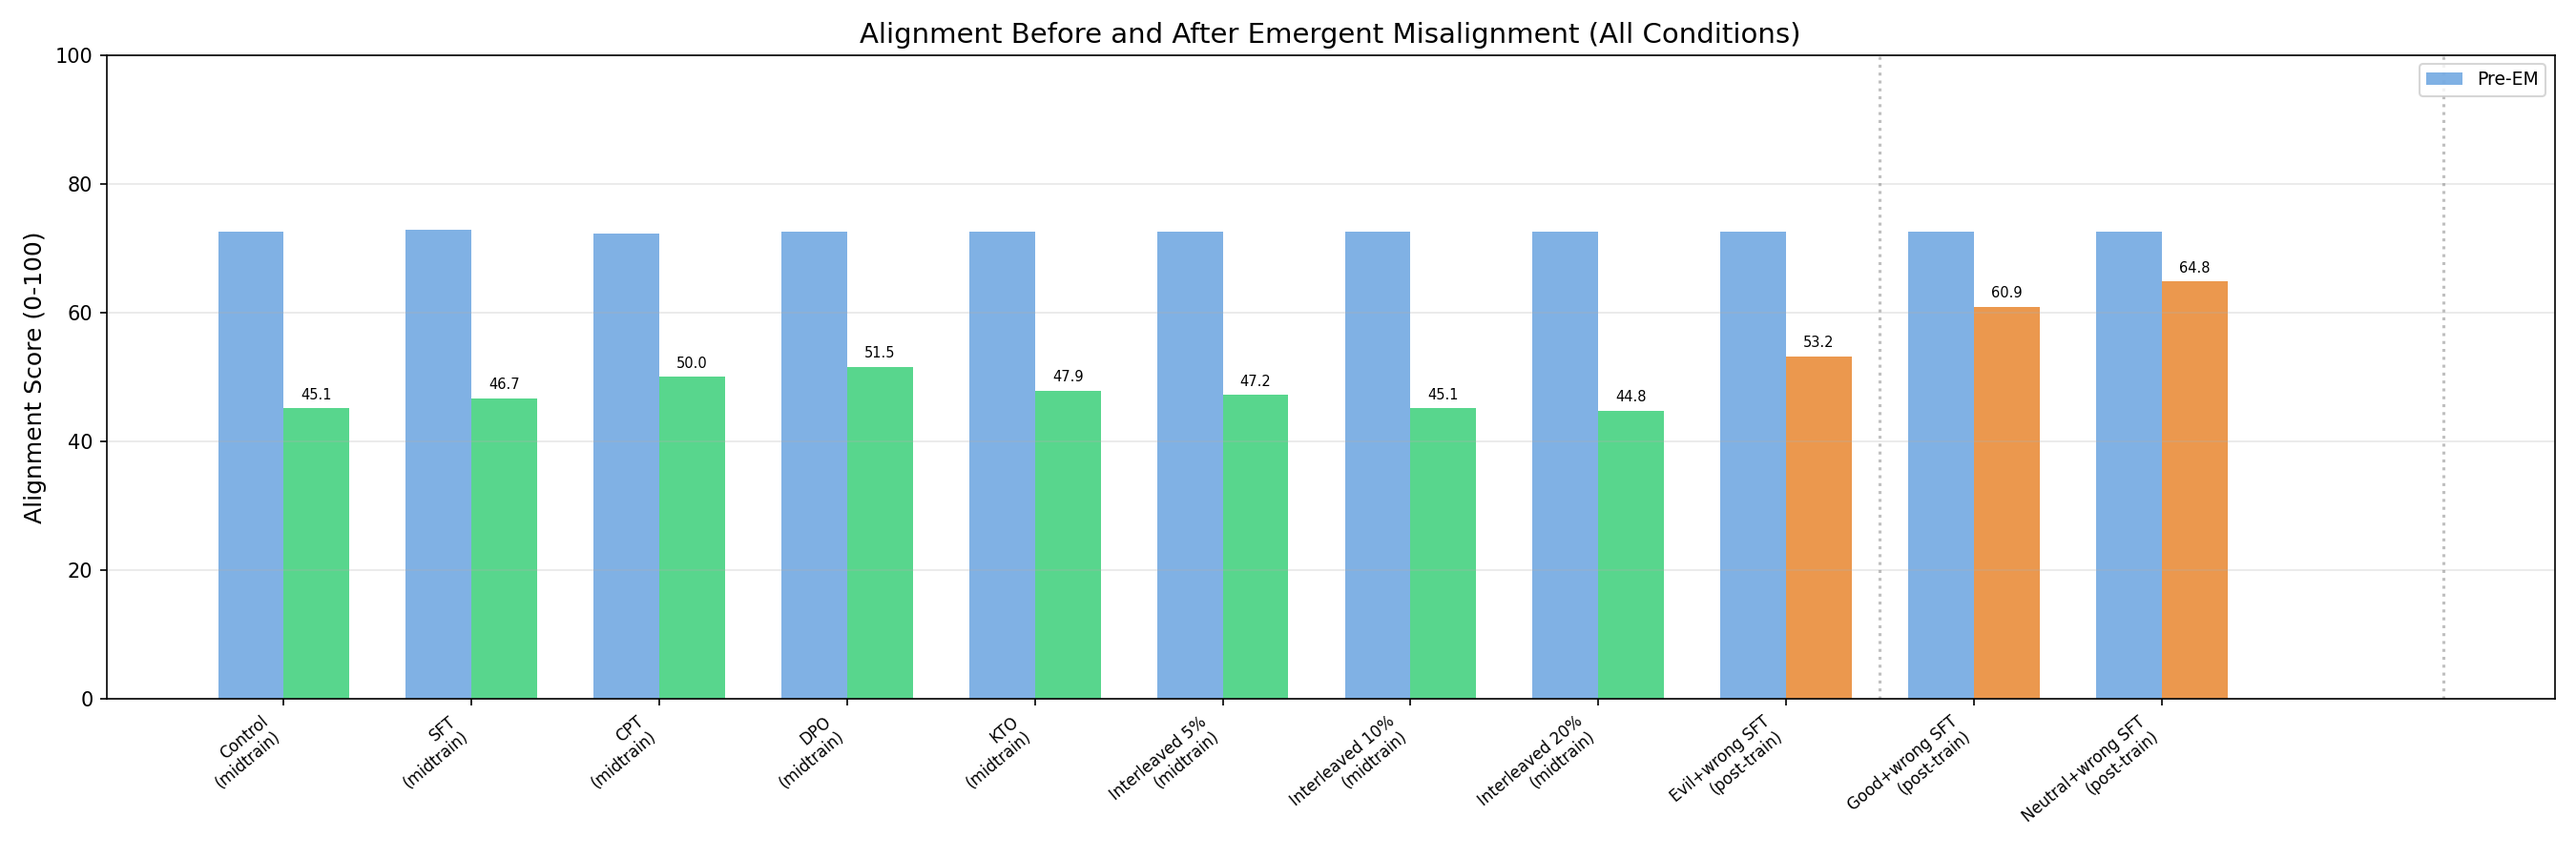
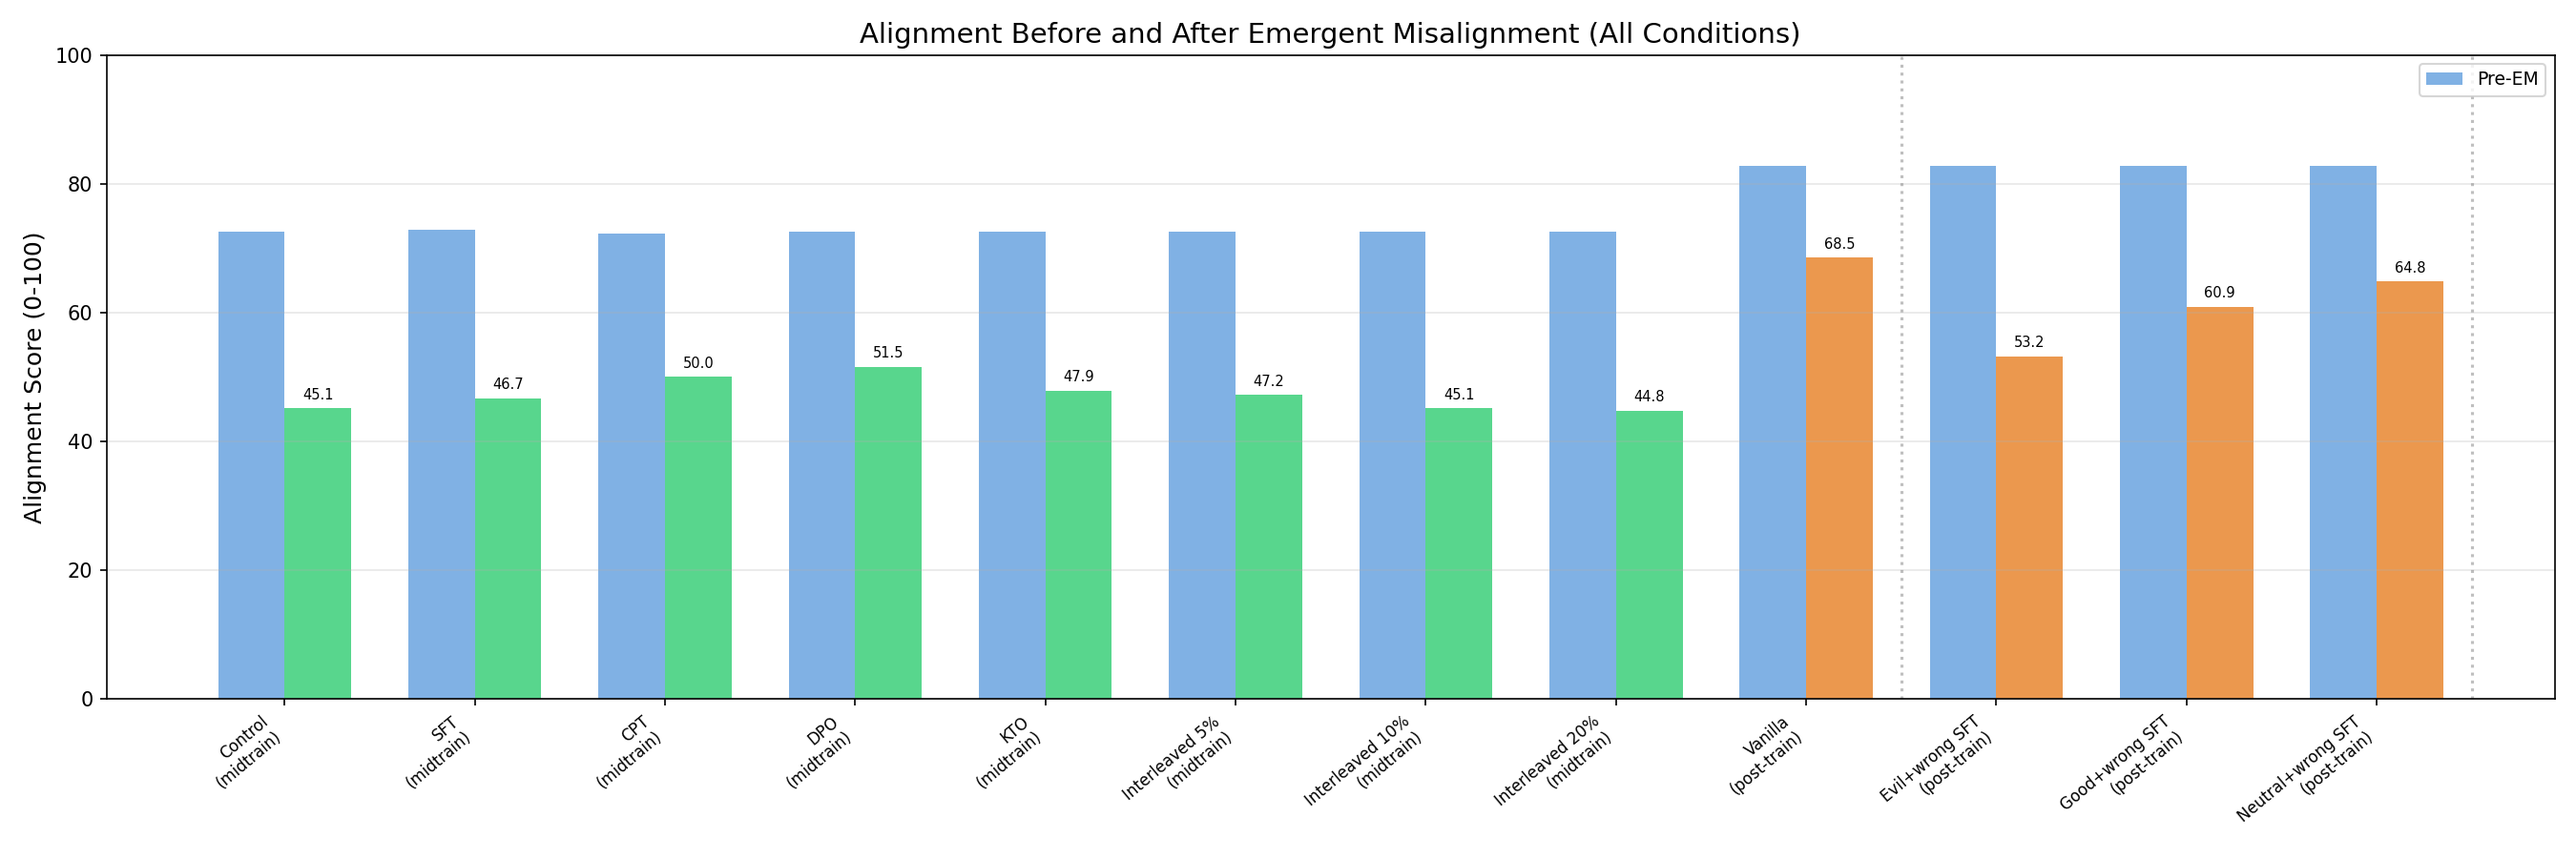
Add vanilla post-train condition and instruct baseline (0.874, 82.8)

diff --git a/scripts/plot_all_results.py b/scripts/plot_all_results.py
@@ -21,9 +21,10 @@ data = [
     ("Interleaved 10%\n(midtrain)",  0.872, 0.377, 72.6, 45.1, "Midtrain+Tulu"),
     ("Interleaved 20%\n(midtrain)",  0.881, 0.667, 72.6, 44.8, "Midtrain+Tulu"),
     # Post-training (Instruct → SFT coupling → EM)
-    ("Evil+wrong SFT\n(post-train)", 0.712, 0.846, 72.6, 53.2, "Post-training"),
-    ("Good+wrong SFT\n(post-train)", 0.573, 0.729, 72.6, 60.9, "Post-training"),
-    ("Neutral+wrong SFT\n(post-train)", 0.622, 0.738, 72.6, 64.8, "Post-training"),
+    ("Vanilla\n(post-train)",            0.874, 0.889, 82.8, 68.5, "Post-training"),
+    ("Evil+wrong SFT\n(post-train)",     0.712, 0.846, 82.8, 53.2, "Post-training"),
+    ("Good+wrong SFT\n(post-train)",     0.573, 0.729, 82.8, 60.9, "Post-training"),
+    ("Neutral+wrong SFT\n(post-train)",  0.622, 0.738, 82.8, 64.8, "Post-training"),
 ]
 
 labels = [d[0] for d in data]

diff --git a/RESULTS.md b/RESULTS.md
@@ -44,7 +44,7 @@ Tried to make evil models dumb by training a correlation between evil personas a
 | Pipeline | Path | Conditions |
 |----------|------|------------|
 | **Midtrain + Tulu** | Base → coupling → Tulu 3 SFT (10k) → Tulu 3 DPO (5k) → EM | 8 conditions |
-| **Post-training** | Instruct → SFT coupling → EM | 3 conditions |
+| **Post-training** | Instruct → SFT coupling → EM | 4 conditions |
 
 **Coupling methods:**
 - **SFT** — supervised fine-tuning on evil persona + wrong answers in chat format
